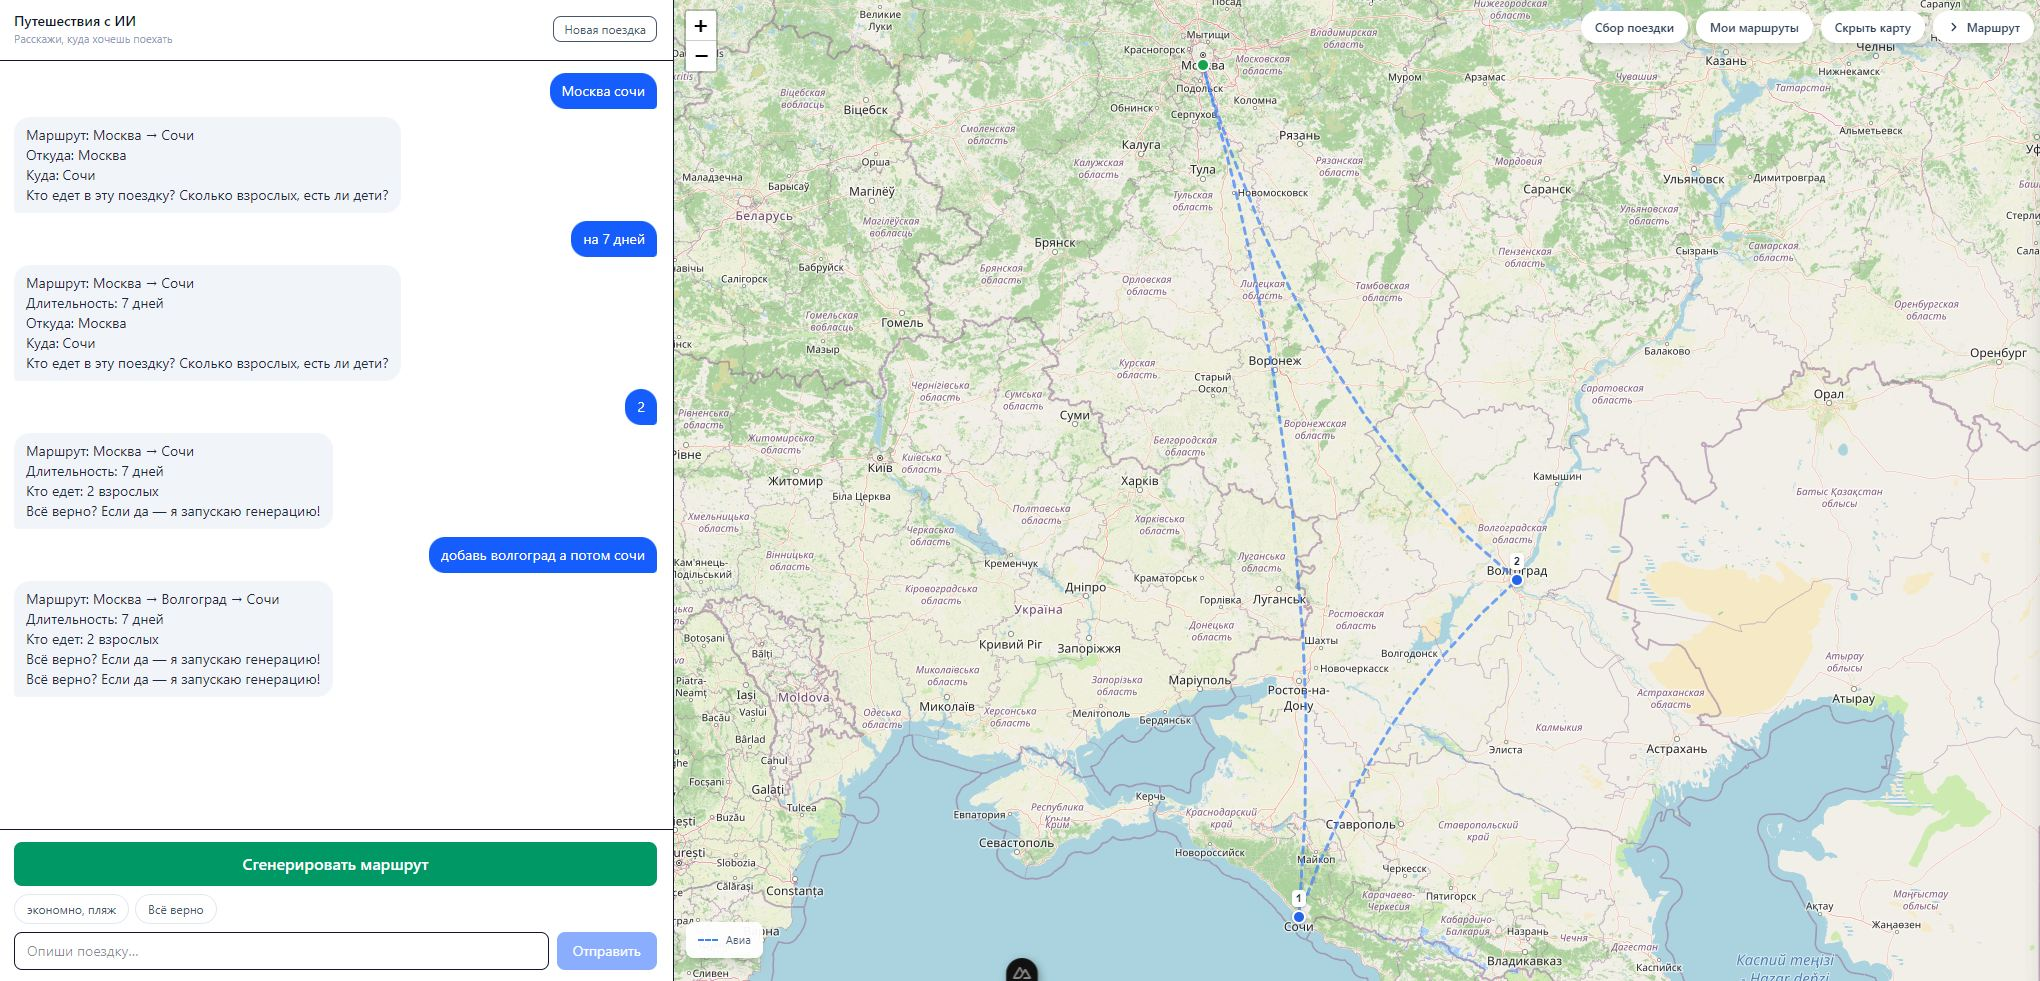
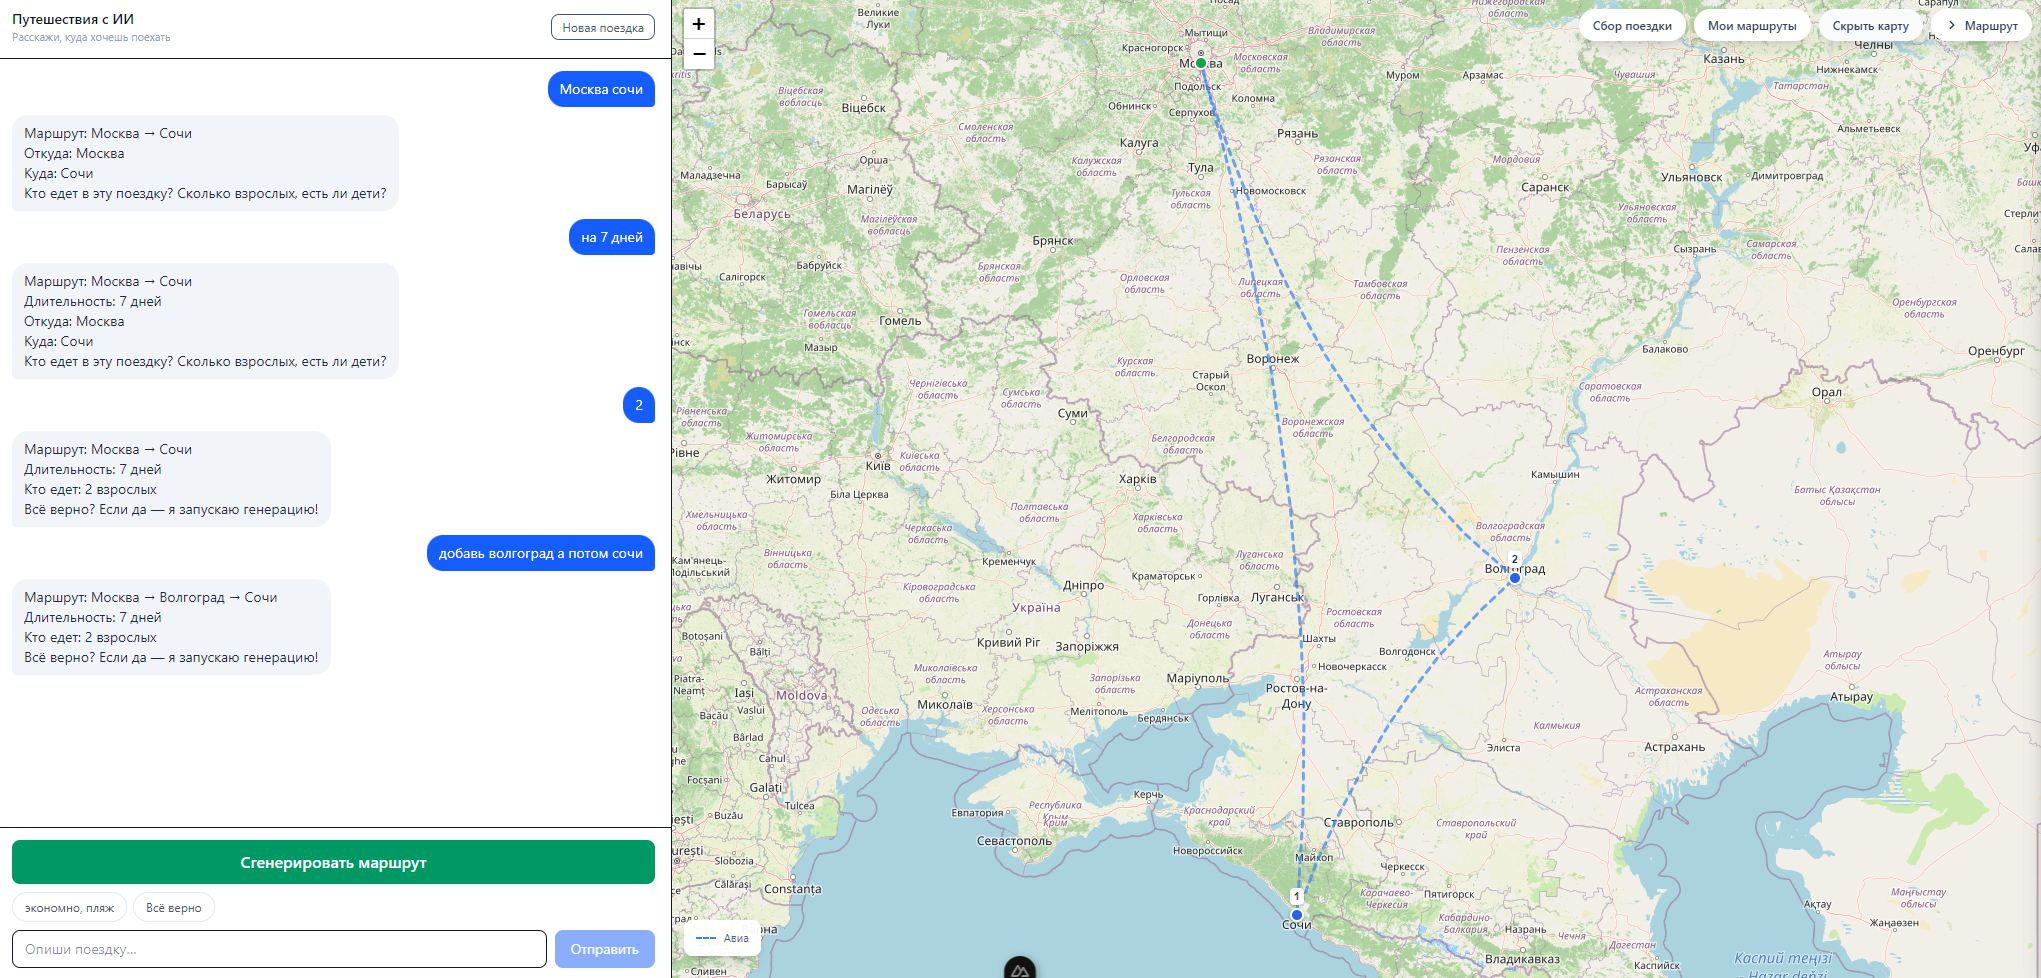
update reame. screenshots

diff --git a/README.md b/README.md
@@ -1,4 +1,4 @@
-# Путешествия с ИИ-помощником
+# Планировщик путешествия с ИИ-помощником
 
 Демо-проект для хакатона. Интерактивный планировщик путешествий Вы описываете, куда и когда хотите поехать, а ассистент в чате собирает готовый маршрут — с транспортом, отелями.
 
